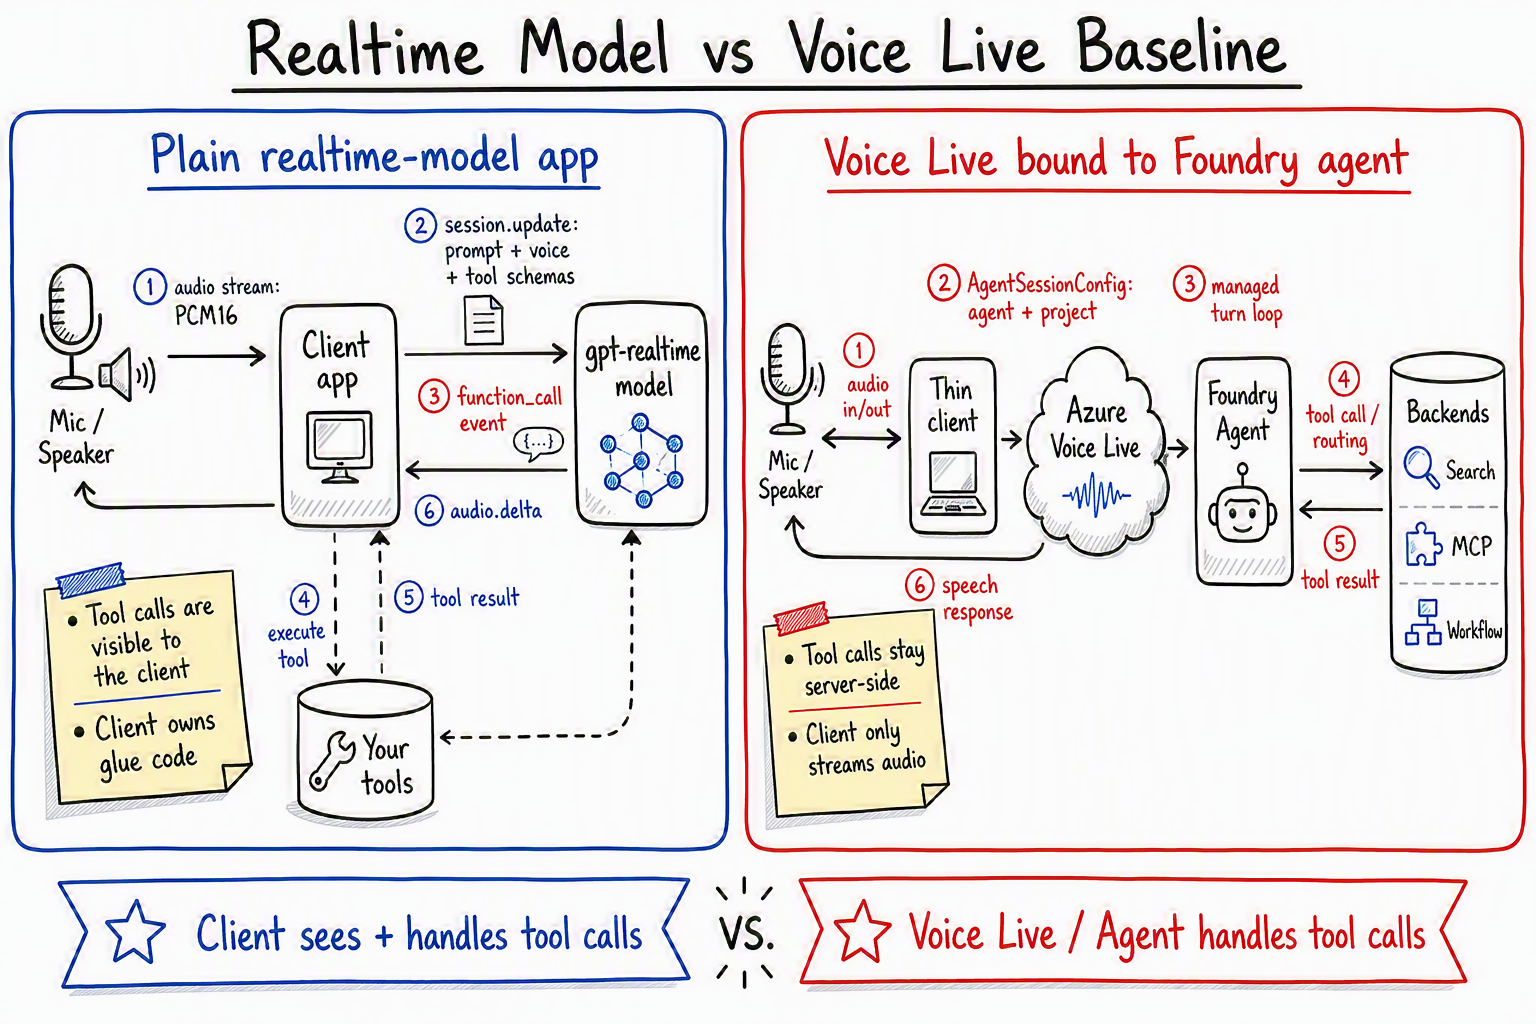
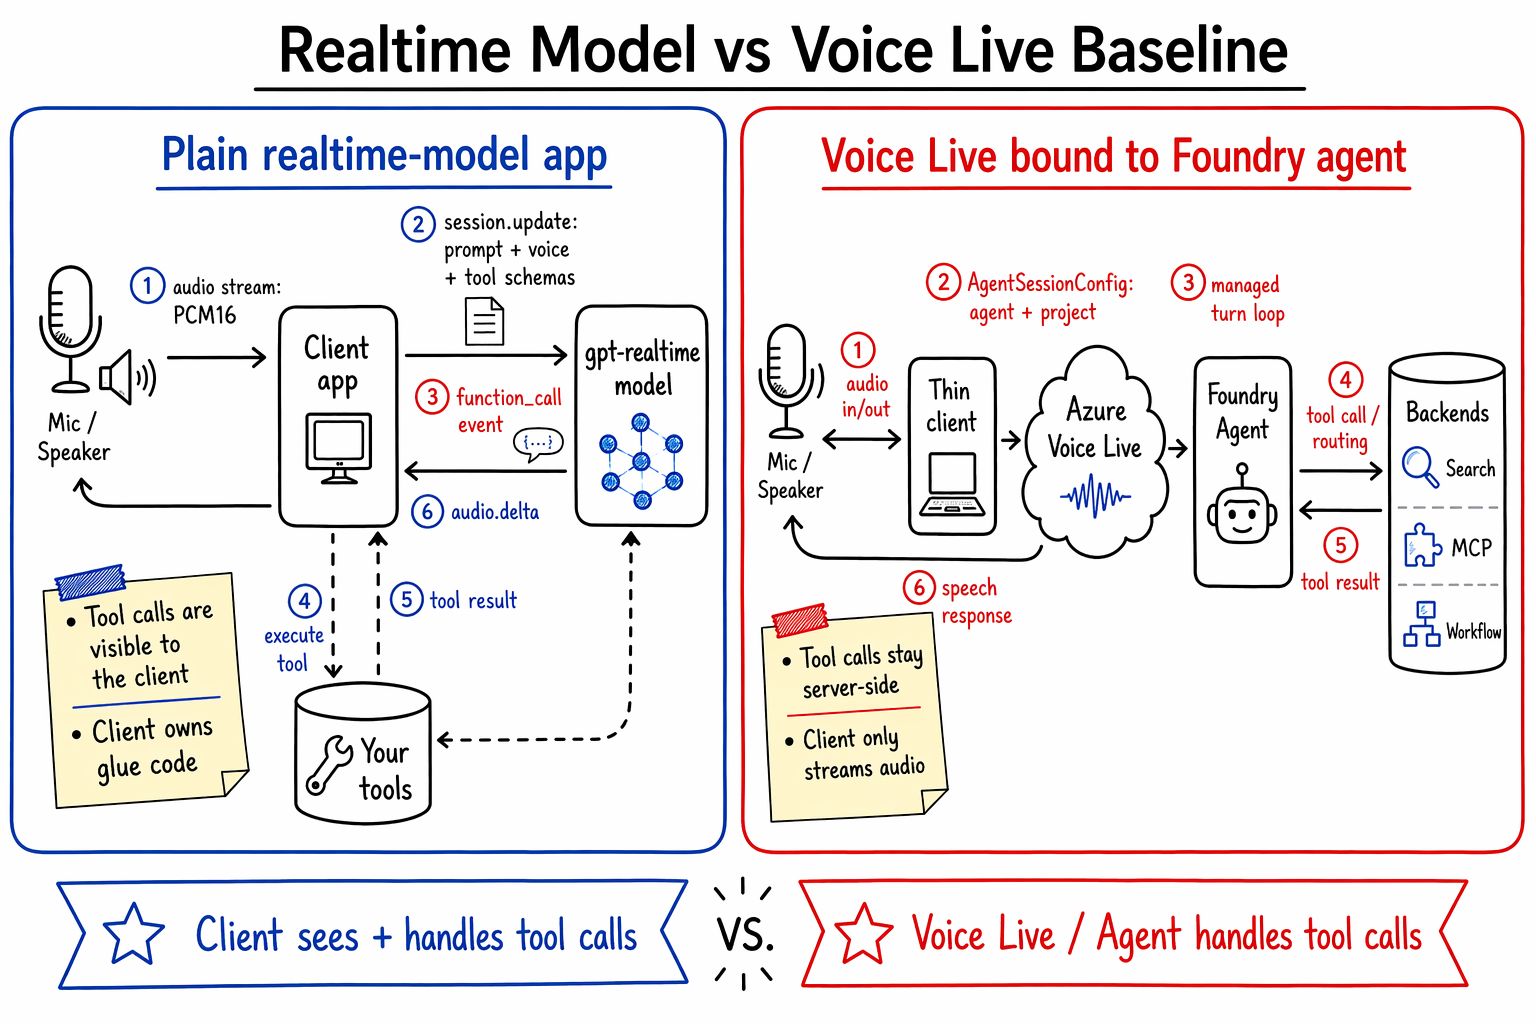
added new images

diff --git a/README.md b/README.md
@@ -24,6 +24,88 @@ A voice-enabled product support hotline for bike recommendations, troubleshootin
                     └────────────┘
 ```
 
+## Narrative
+
+![narrative](./docs/product-guide-scenario.png)
+
+This project demonstrates the different options for protocol-based communication across an
+agentic system. It focuses on **A2A**, **MCP**, **AG-UI**, **ACP**, the **Responses API** and
+the **Invocations API**, and shows how they fit together across three layers:
+
+1. **User experiences** — how humans reach the system: web apps, mobile clients, and phone /
+   voice integrations.
+2. **Agents** — the reasoning units, exposed via the Invocations API, the Responses API, or A2A.
+3. **Context providers** — the tools and data sources agents draw on, surfaced via MCP
+   (MCP servers and MCP-capable agents).
+
+The same bike-support domain is wired up repeatedly through these different protocols so the
+trade-offs between them become concrete rather than abstract.
+
+### Layer 1 — User experiences
+
+| Experience | Channel | Backend protocol | Where in the repo |
+| --- | --- | --- | --- |
+| Browser web app (WebRTC) | Low-latency audio + data channel | VoiceLive → hosted agent | [src/webrtclive](src/webrtclive), [src/webrtcpipecat](src/webrtcpipecat) |
+| Browser web app (WS proxy) | Binary PCM + JSON over WebSocket | VoiceLive → hosted agent | [src/webclient](src/webclient) |
+| Local voice client (mic/speaker) | VoiceLive STT/TTS | Responses / Invocations / MCP | [src/voice](src/voice), [src/voice-invocation](src/voice-invocation) |
+| Click + voice rental UI | WebRTC + UI events | Invocations API (SSE) | [src/webrtc-bike-rental](src/webrtc-bike-rental) |
+| Phone / hotline integration | Streamed spoken turns | VoiceLive → workflow agent | [src/workflows/bike-support.yaml](src/workflows/bike-support.yaml) |
+
+### Layer 2 — Agents and their exposure protocols
+
+| Agent | Type | Exposed via | Notes |
+| --- | --- | --- | --- |
+| `bike-concierge` | Prompt agent | Responses API | Intent classifier / router with structured JSON output |
+| `product-guide` | Hosted (Agent Framework) | Responses API + A2A | AI Search–grounded catalogue answers |
+| `support-hotline` | Hosted (Agent Framework) | Responses API + A2A | Bing-grounded troubleshooting via Foundry Toolbox **MCP** |
+| `repair-status` | Hosted (LangGraph) | Responses API + A2A | Stateful repair scheduling tools |
+| `bike-renting` | Hosted (Invocations) | **Invocations API** | Voice + click rental, custom UI/SSE events |
+| `voice-live-mcp` | Local voice agent | VoiceLive + **MCP** | Self-contained local demo, no hosted agent |
+| `bike-support` | Workflow | Responses API | Orchestrates the concierge + specialists |
+
+### Layer 3 — Context providers (MCP)
+
+| Provider | Kind | Tools exposed | Consumed by |
+| --- | --- | --- | --- |
+| `bike-rental` MCP server | Streamable-HTTP MCP server | `search_bikes`, `get_bike`, `reserve_bike`, `confirm_booking`, `cancel_reservation`, … | `voice-live-mcp`, any MCP client |
+| Foundry Toolbox (Bing Custom Web Search) | Hosted MCP toolbox | Web search / grounding | `support-hotline` |
+
+### Choosing a protocol: Invocations vs Responses vs MCP vs A2A
+
+The four protocols are largely **orthogonal**, not competing — they differ mainly in *how much
+the platform manages state and orchestration*, and in their latency and concurrency profiles.
+
+- **Invocation API** — a raw, low-level endpoint optimised for performance and flexibility. The
+  client or container fully controls state, orchestration, and async behaviour. Lowest latency,
+  best for real-time voice / WebRTC pipelines and backend-controlled orchestration.
+- **Responses API** — a higher-level abstraction with built-in agent loops, optional
+  conversation state, and integrated tool execution. Simplifies development at the cost of
+  slightly more overhead from managed orchestration. Ideal for most enterprise agents.
+- **MCP** — a lightweight, mostly stateless request/response (with optional streaming) layer for
+  synchronous or near-real-time access to external tools and data. Minimal overhead; used
+  whenever agents need structured access to enterprise tools and data systems.
+- **A2A** — designed for asynchronous, stateful collaboration *between agents*, where
+  long-running tasks, delegation, and progress tracking are first-class. Highest latency envelope
+  due to network hops and task-lifecycle management; used in multi-agent architectures that
+  coordinate complex workflows or integrate across platforms.
+
+| Dimension | Invocation API | Responses API | MCP | A2A |
+| --- | --- | --- | --- | --- |
+| Abstraction level | Raw / low-level | High-level agent loop | Tool-invocation layer | Agent collaboration layer |
+| State management | Stateless (developer-managed) | Flexible / partially or fully managed | Not enforced (client/server-managed) | Stateful at the task level |
+| Orchestration | Client/container controlled | Platform-managed agent loop | None (caller orchestrates) | Task delegation + lifecycle |
+| Sync vs async | Sync + optional streaming | Sync + optional streaming | Sync + streaming, short-lived | Async, long-running, resumable |
+| Latency profile | Lowest | Slightly higher | Minimal overhead | Highest envelope |
+| Best for | Real-time UX, custom runtimes, backend orchestration | Most enterprise agents, built-in reasoning | Structured tool / data access | Multi-agent coordination & delegation |
+
+**Sources:** [Manage hosted sessions (learn.microsoft.com)](https://learn.microsoft.com/en-us/azure/foundry/agents/how-to/manage-hosted-sessions) ·
+[Migrate to Responses API (developers.openai.com)](https://developers.openai.com/api/docs/guides/migrate-to-responses) ·
+[MCP vs A2A (stackone.com)](https://www.stackone.com/blog/mcp-vs-a2a-protocol/) ·
+[A2A vs MCP — when to use which (stride.build)](https://www.stride.build/blog/agent-to-agent-a2a-vs-model-context-protocol-mcp-when-to-use-which) ·
+[Invocations basic sample (github.com)](https://github.com/microsoft-foundry/foundry-samples/tree/main/samples/python/hosted-agents/agent-framework/invocations/01-basic) ·
+[A2A streaming & async (a2a-protocol.org)](https://a2a-protocol.org/latest/topics/streaming-and-async/)
+
+
 ## Agents
 
 ### 1. `bike-concierge` — Prompt Agent
